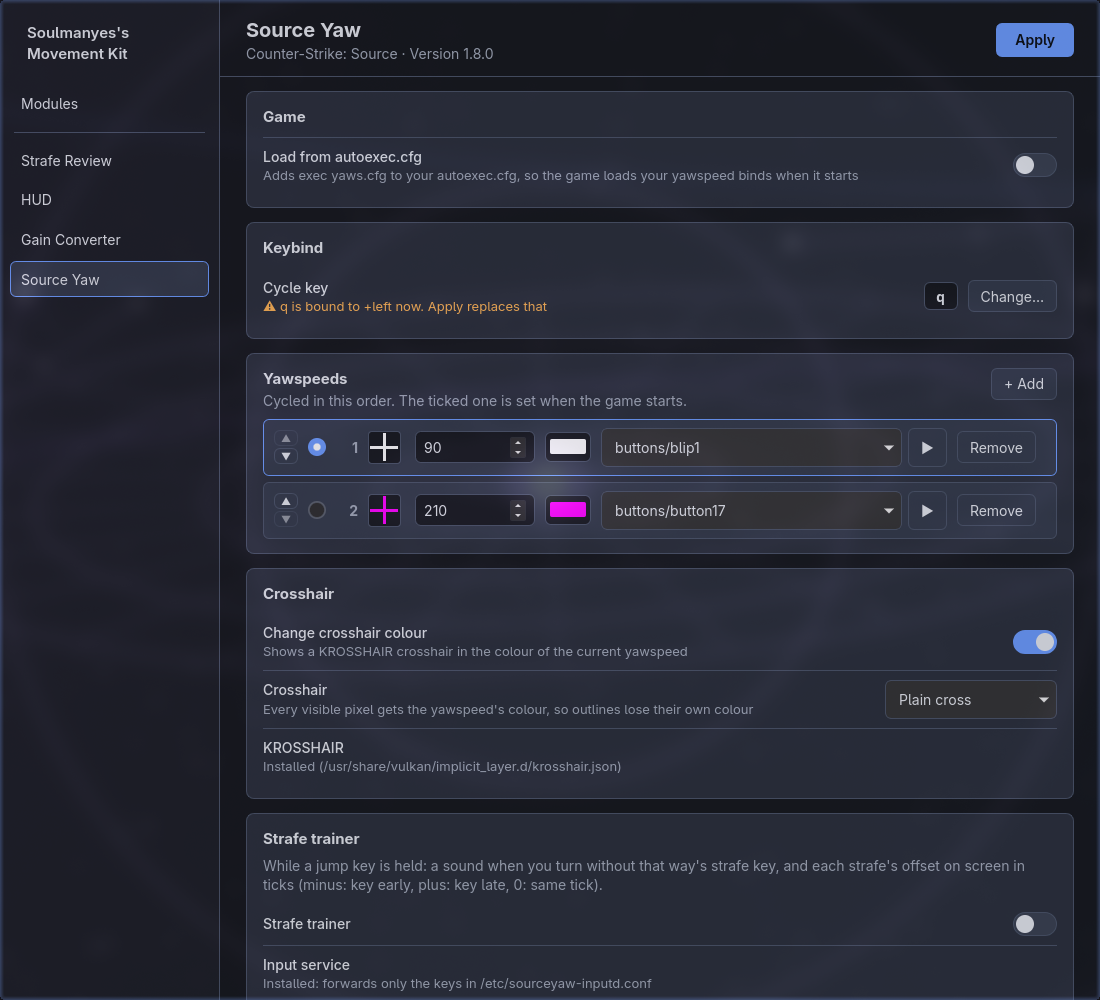
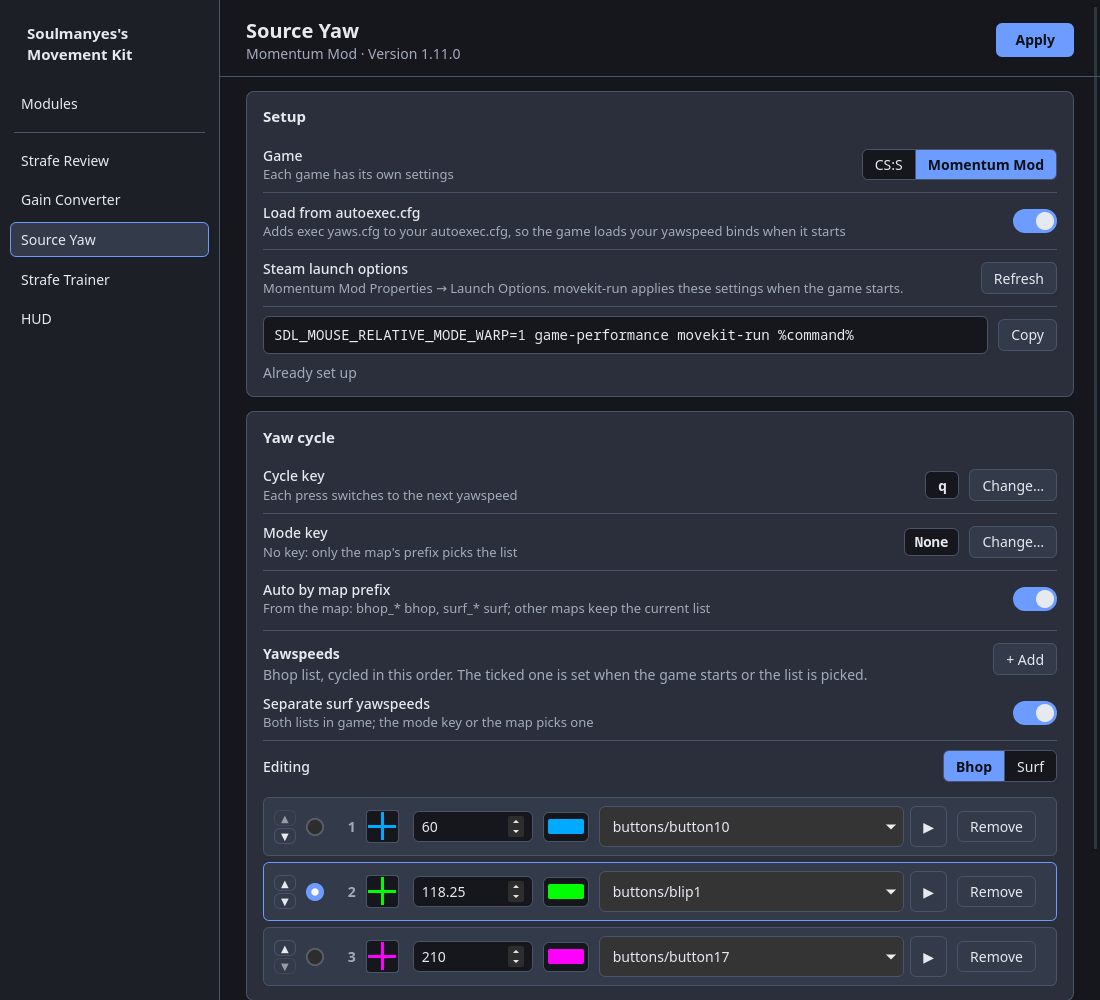
chore(release): core 1.10.0 and a Source Yaw screenshot without the trainer
Strafe Trainer and Source Yaw 1.11.0 need core 1.10.0. The README
screenshot now shows the Source Yaw page after the trainer moved out.

diff --git a/hub/hub_release.py b/hub/hub_release.py
@@ -5,6 +5,6 @@ The installed file keeps its name: a copy that came from Strafe Review's line is
 strafe-review.exe, because Steam's launch option points at that path; the core update takes EXE from
 the zip and puts it in under the running exe's name.
 """
-VERSION = "1.9.0"  # bump in the same commit as the hub-v* tag
+VERSION = "1.10.0"  # bump in the same commit as the hub-v* tag
 ASSET = "hub-windows.zip"  # windows-release.yml names the zip <tool>-windows.zip
 EXE = "movement-kit.exe"

diff --git a/movekit/modules.py b/movekit/modules.py
@@ -84,7 +84,7 @@ from pathlib import Path
 
 from movekit import paths, updater
 
-CORE_VERSION = "1.9.0"  # the hub-v* line; hub/hub_release.py's VERSION must match (check_modules)
+CORE_VERSION = "1.10.0"  # the hub-v* line; hub/hub_release.py's VERSION must match (check_modules)
 CORE = "core"
 CORE_PREFIX = "hub-v"
 CORE_ASSET = "hub-windows.zip"  # the core exe's release zip (Windows); Linux installs the source
